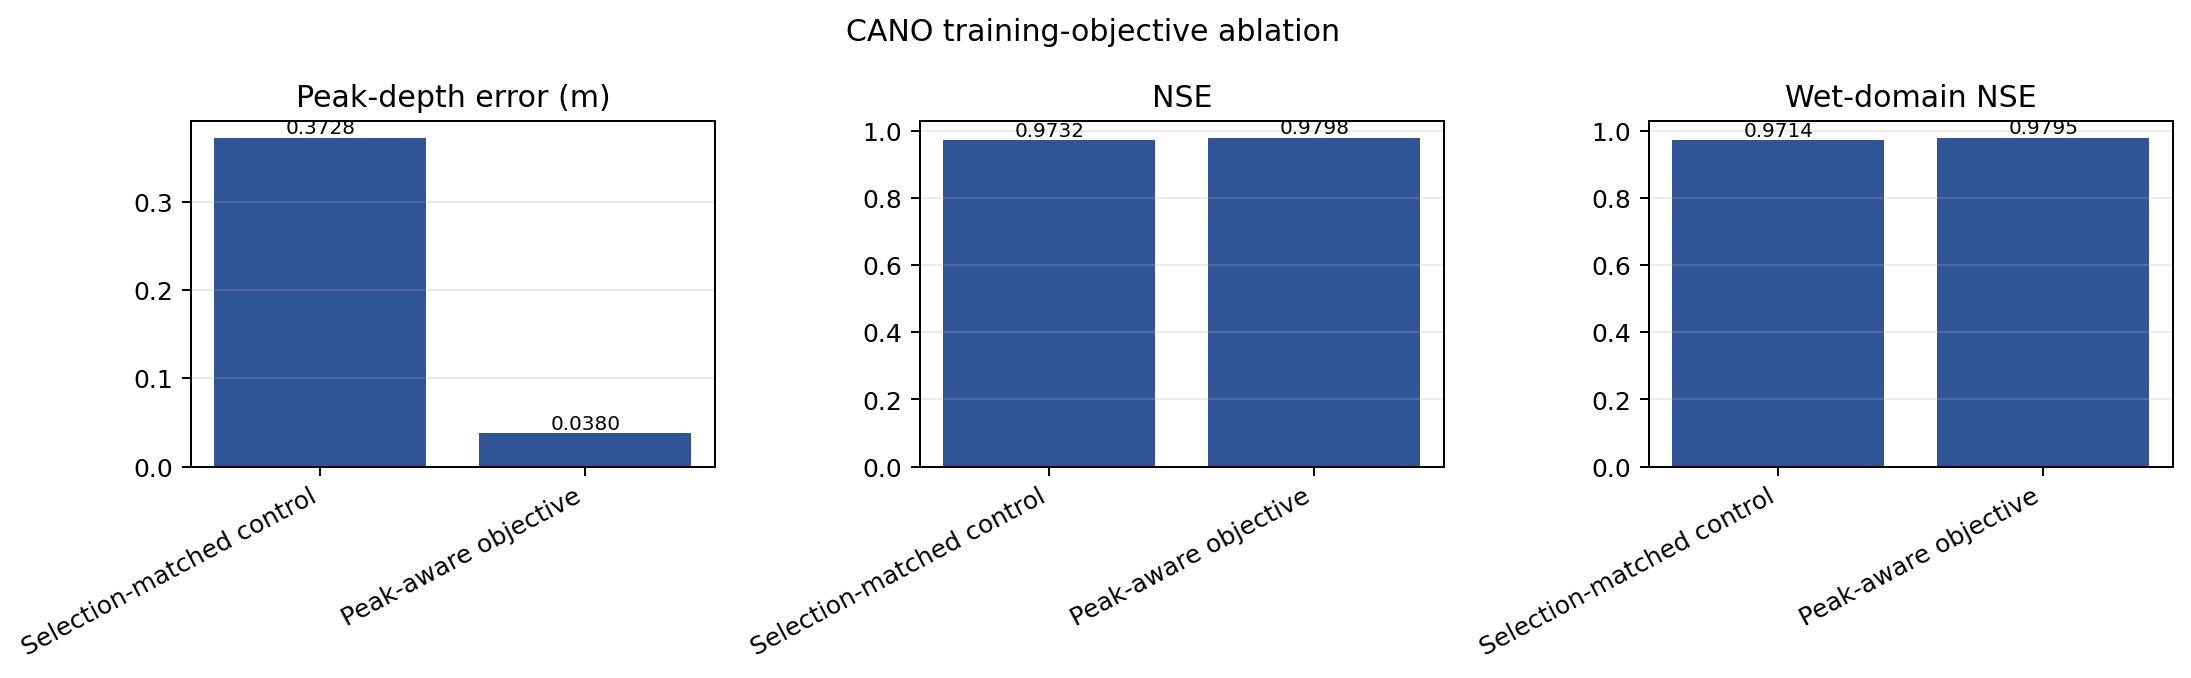
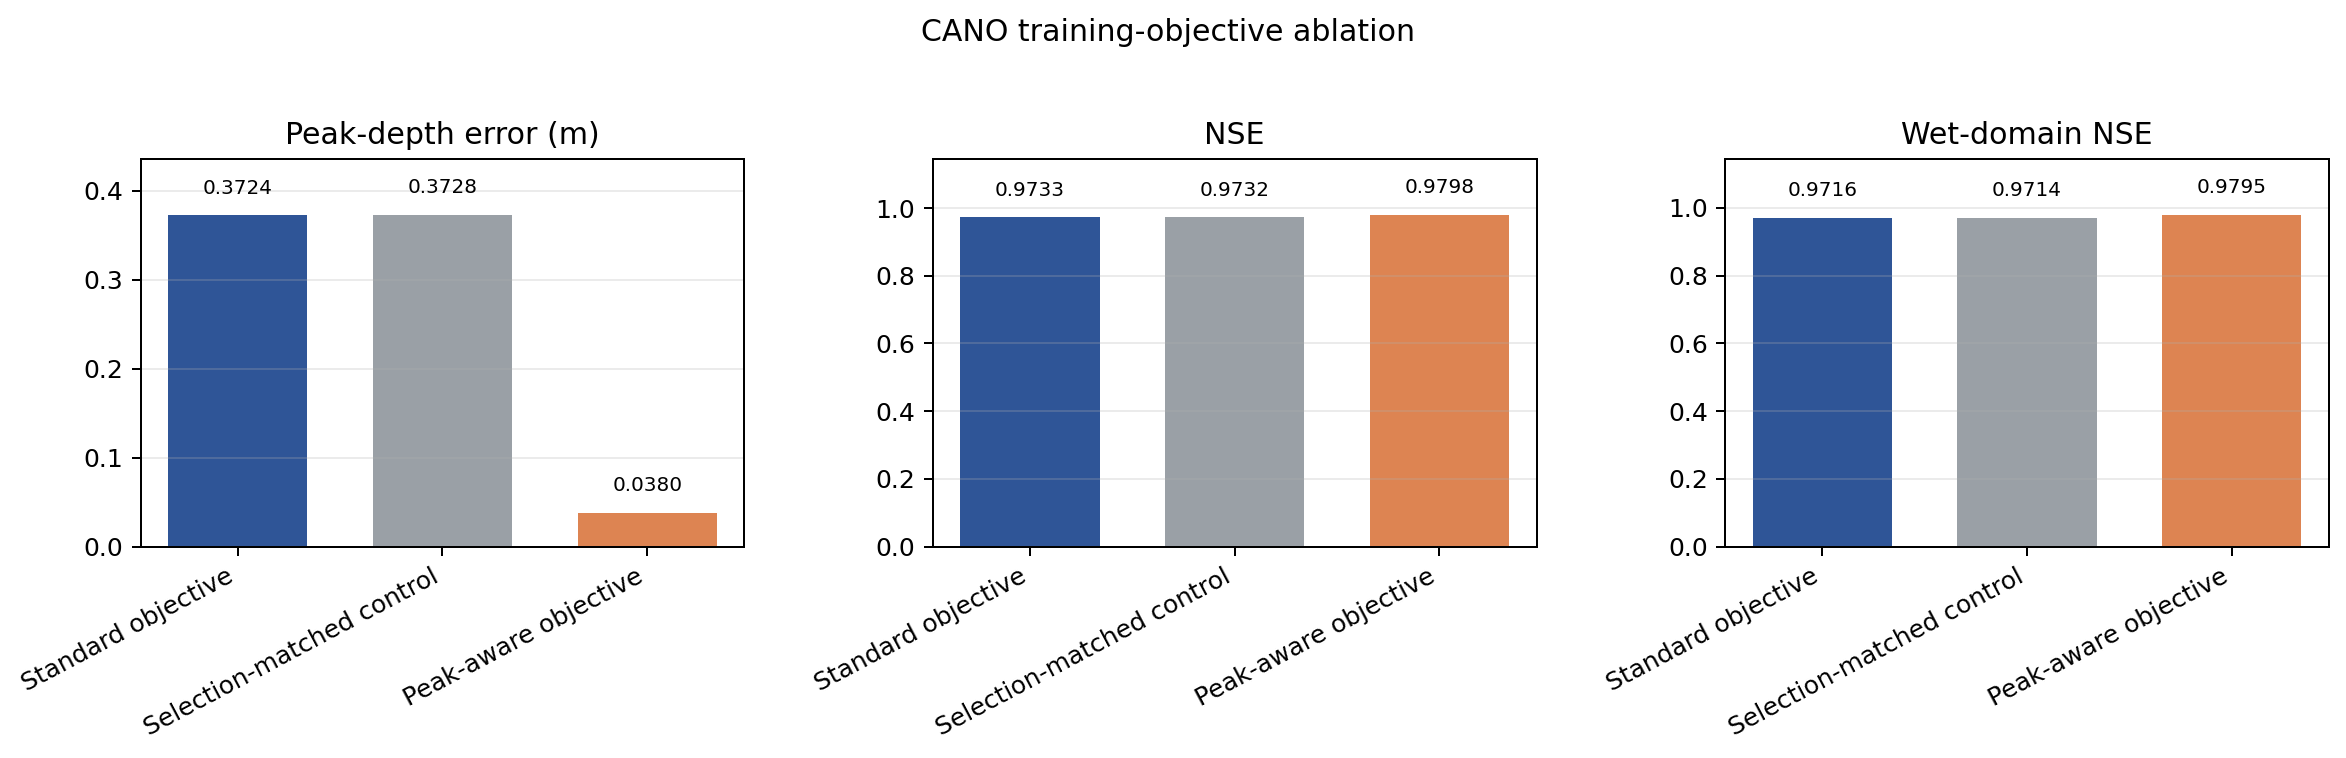
Add CANO objective ablation results

diff --git a/src/cano_bigdata2026/results.py b/src/cano_bigdata2026/results.py
@@ -5,7 +5,7 @@ from __future__ import annotations
 import argparse
 import csv
 from pathlib import Path
-from typing import Sequence
+from typing import Callable, Sequence
 
 import matplotlib
 
@@ -45,38 +45,57 @@ def _display_label(row: dict[str, str]) -> str:
     }.get(label, label)
 
 
+def _objective_label(row: dict[str, str]) -> str:
+    return {
+        "CANO (standard objective)": "Standard objective",
+        "CANO (selection-matched control)": "Selection-matched control",
+        "CANO (peak-aware objective)": "Peak-aware objective",
+    }.get(row["system"], row["system"])
+
+
+def _bar_color(row: dict[str, str]) -> str:
+    if row.get("comparison") == "cano_ablation":
+        return (
+            "#DD8452"
+            if row["system"] == "CANO (peak-aware objective)"
+            else "#9AA0A6"
+        )
+    return "#2F5597" if row["system"].startswith("CANO") else "#9AA0A6"
+
+
 def _bar_panels(
     rows: list[dict[str, str]],
     metrics: Sequence[str],
     output: Path,
     *,
     title: str,
+    labeler: Callable[[dict[str, str]], str] = _display_label,
 ) -> None:
-    figure, axes = plt.subplots(1, len(metrics), figsize=(4.1 * len(metrics), 3.8))
+    figure, axes = plt.subplots(1, len(metrics), figsize=(4.4 * len(metrics), 4.25))
     if len(metrics) == 1:
         axes = [axes]
-    labels = [_display_label(row) for row in rows]
-    colors = [
-        "#2F5597" if row["system"].startswith("CANO") else "#9AA0A6"
-        for row in rows
-    ]
+    labels = [labeler(row) for row in rows]
+    colors = [_bar_color(row) for row in rows]
     for axis, metric in zip(axes, metrics):
         values = [_float(row, metric) for row in rows]
-        bars = axis.bar(range(len(rows)), values, color=colors)
+        bars = axis.bar(range(len(rows)), values, width=0.68, color=colors)
         axis.set_title(METRIC_LABELS[metric])
         axis.set_xticks(range(len(rows)), labels, rotation=28, ha="right")
         axis.grid(axis="y", alpha=0.25)
         for bar, value in zip(bars, values):
-            axis.text(
-                bar.get_x() + bar.get_width() / 2,
-                bar.get_height(),
+            axis.annotate(
                 f"{value:.4f}",
+                xy=(bar.get_x() + bar.get_width() / 2, bar.get_height()),
+                xytext=(0, 7),
+                textcoords="offset points",
                 ha="center",
                 va="bottom",
                 fontsize=8,
             )
+        maximum = max(values)
+        axis.set_ylim(0, maximum * 1.17 if maximum > 0 else 1)
     figure.suptitle(title)
-    figure.tight_layout()
+    figure.tight_layout(rect=(0, 0, 1, 0.95), w_pad=2.2)
     figure.savefig(output, dpi=180, bbox_inches="tight")
     plt.close(figure)
 
@@ -104,20 +123,13 @@ def _event_plot(rows: list[dict[str, str]], output: Path) -> None:
     plt.close(figure)
 
 
-def _markdown(rows: list[dict[str, str]]) -> str:
+def _table_lines(rows: list[dict[str, str]]) -> list[str]:
     header = (
         "| System | Parameters (M) | H RMSE | NSE | Wet RMSE | Wet NSE | "
         "Peak error | CSI .01 | CSI .10 | CSI .30 | CSI .50 | Target ACE | Target WIS |"
     )
     rule = "|---|---:|---:|---:|---:|---:|---:|---:|---:|---:|---:|---:|---:|"
-    lines = [
-        "# Reported results",
-        "",
-        "Event-macro averages over the 12 BerlinI evaluation events.",
-        "",
-        header,
-        rule,
-    ]
+    lines = [header, rule]
     for row in rows:
         lines.append(
             "| {system} | {parameters_m:.3f} | {h_rmse_m:.4f} | {nse:.4f} | "
@@ -132,6 +144,32 @@ def _markdown(rows: list[dict[str, str]]) -> str:
                 },
             )
         )
+    return lines
+
+
+def _markdown(rows: list[dict[str, str]]) -> str:
+    standard = [row for row in rows if row["comparison"] == "standard"]
+    cano_standard = [
+        row for row in standard if row["system"] == "CANO (standard objective)"
+    ]
+    if len(cano_standard) != 1:
+        raise ValueError("expected exactly one CANO standard-objective row")
+    ablation = cano_standard + [
+        row for row in rows if row["comparison"] == "cano_ablation"
+    ]
+    lines = [
+        "# Reported results",
+        "",
+        "Event-macro averages over the 12 BerlinI evaluation events.",
+        "",
+        "## Standard-objective comparison",
+        "",
+        *_table_lines(standard),
+        "",
+        "## CANO training-objective ablation",
+        "",
+        *_table_lines(ablation),
+    ]
     lines.extend(
         [
             "",
@@ -151,7 +189,14 @@ def reproduce(*, results_dir: Path, output_dir: Path) -> dict[str, object]:
         _markdown(main_rows), encoding="utf-8"
     )
     standard = [row for row in main_rows if row["comparison"] == "standard"]
-    ablation = [row for row in main_rows if row["comparison"] == "cano_ablation"]
+    cano_standard = [
+        row for row in standard if row["system"] == "CANO (standard objective)"
+    ]
+    if len(cano_standard) != 1:
+        raise ValueError("expected exactly one CANO standard-objective row")
+    ablation = cano_standard + [
+        row for row in main_rows if row["comparison"] == "cano_ablation"
+    ]
     _bar_panels(
         standard,
         ("h_rmse_m", "nse", "wet_nse"),
@@ -169,6 +214,7 @@ def reproduce(*, results_dir: Path, output_dir: Path) -> dict[str, object]:
         ("peak_depth_abs_error_m", "nse", "wet_nse"),
         output_dir / "cano_objective_ablation.png",
         title="CANO training-objective ablation",
+        labeler=_objective_label,
     )
     _event_plot(event_rows, output_dir / "event_level_h_rmse.png")
     return {

diff --git a/tests/test_results.py b/tests/test_results.py
@@ -46,7 +46,12 @@ def test_reproduce_public_results(tmp_path: Path) -> None:
     assert result["status"] == "PASS"
     assert result["rows"] == 6
     assert result["event_rows"] == 48
-    assert (tmp_path / "generated/main_results.md").is_file()
+    table = (tmp_path / "generated/main_results.md").read_text(encoding="utf-8")
+    assert "## Standard-objective comparison" in table
+    assert "## CANO training-objective ablation" in table
+    assert table.count("CANO (standard objective)") == 2
+    assert table.count("CANO (selection-matched control)") == 1
+    assert table.count("CANO (peak-aware objective)") == 1
     for name in (
         "point_prediction_metrics.png",
         "uncertainty_metrics.png",
@@ -54,4 +59,3 @@ def test_reproduce_public_results(tmp_path: Path) -> None:
         "event_level_h_rmse.png",
     ):
         assert (tmp_path / "generated" / name).stat().st_size > 1_000
-

diff --git a/README.ko.md b/README.ko.md
@@ -100,6 +100,42 @@ python scripts/run_evidence_pipeline.py \
 
 ## 공개 결과
 
+표는 BerlinI 평가 사건 12개의 사건-매크로 평균입니다. 오차·Target ACE·Target
+WIS는 낮을수록 좋고, NSE·침수영역 NSE·CSI는 높을수록 좋습니다.
+
+### 표준 목적함수 비교
+
+| 시스템 | 파라미터 (M) | H RMSE | NSE | 침수영역 NSE | 극대수심 오차 | Target ACE | Target WIS |
+|---|---:|---:|---:|---:|---:|---:|---:|
+| **CANO (표준 목적함수)** | **0.277** | **0.0195** | **0.9733** | **0.9716** | 0.3724 | 0.0714 | **0.0121** |
+| DNO-3 (표준 목적함수) | 10.815 | 0.0288 | 0.9424 | 0.9369 | 0.2614 | 0.0280 | 0.0219 |
+| FNO3D (표준 목적함수) | 10.627 | 0.0294 | 0.9396 | 0.9521 | **0.1864** | **0.0157** | 0.0166 |
+| U-Net3D (표준 목적함수) | 5.650 | 0.0380 | 0.8703 | 0.8613 | 0.6357 | 0.0645 | 0.0355 |
+
+<p align="center">
+  <img src="results/generated/point_prediction_metrics.png" width="900" alt="표준 목적함수 점예측 성능">
+</p>
+
+### CANO 학습 목적함수 절제실험
+
+동일한 평가 조건에서 표준 목적함수, 선택조건 일치 대조군, 극대수심 궤적
+목적함수를 비교합니다.
+
+| CANO 목적함수 | H RMSE | NSE | 침수영역 RMSE | 침수영역 NSE | 극대수심 오차 | CSI .01 | CSI .10 | CSI .30 | CSI .50 | Target ACE | Target WIS |
+|---|---:|---:|---:|---:|---:|---:|---:|---:|---:|---:|---:|
+| 표준 목적함수 | 0.0195 | 0.9733 | 0.0236 | 0.9716 | 0.3724 | **0.7640** | 0.8414 | 0.9029 | 0.7678 | 0.0714 | 0.0121 |
+| 선택조건 일치 대조군 | 0.0195 | 0.9732 | 0.0237 | 0.9714 | 0.3728 | 0.7638 | 0.8412 | 0.9027 | 0.7677 | 0.0715 | 0.0121 |
+| 극대수심 궤적 목적함수 | **0.0164** | **0.9798** | **0.0197** | **0.9795** | **0.0380** | 0.7567 | **0.8541** | **0.9295** | **0.8261** | **0.0428** | **0.0074** |
+
+<p align="center">
+  <img src="results/generated/cano_objective_ablation.png" width="900" alt="CANO 학습 목적함수 절제실험">
+</p>
+
+극대수심 궤적 목적함수는 사건-매크로 극대수심 오차를 0.3724 m에서
+0.0380 m로 줄이고 NSE와 침수영역 NSE를 높였습니다. 반면 CSI .01은 모든
+지표가 함께 개선된 것은 아님을 보여줍니다. 같은 평가 사건 12개를 사용한
+절제실험이므로 독립 사건과 추가 도시 영역에서의 확인이 필요합니다.
+
 - `results/paper/main_results.csv`: 6개 비교행과 12개 지표
 - `results/paper/event_level_results.csv`: 12개 평가 사건의 익명화 결과
 - `results/generated/paired_inference.md`: 6개 핵심 비교의 효과크기, 95%

diff --git a/README.md b/README.md
@@ -48,10 +48,31 @@ better.
 | FNO3D (standard objective) | 10.627 | 0.0294 | 0.9396 | 0.9521 | **0.1864** | **0.0157** | 0.0166 |
 | U-Net3D (standard objective) | 5.650 | 0.0380 | 0.8703 | 0.8613 | 0.6357 | 0.0645 | 0.0355 |
 
-The within-model training-objective ablation reduced CANO's event-macro peak
-depth error from 0.3724 m to 0.0380 m. This result uses the same 12 evaluation
-events and therefore motivates confirmation on independent events and
-additional urban domains.
+<p align="center">
+  <img src="results/generated/point_prediction_metrics.png" width="900" alt="Standard-objective point-prediction metrics">
+</p>
+
+### CANO training-objective ablation
+
+The within-model ablation compares the standard objective, a selection-matched
+control, and the peak-aware trajectory objective under the same evaluation
+conditions.
+
+| CANO objective | H RMSE | NSE | Wet RMSE | Wet NSE | Peak error | CSI .01 | CSI .10 | CSI .30 | CSI .50 | Target ACE | Target WIS |
+|---|---:|---:|---:|---:|---:|---:|---:|---:|---:|---:|---:|
+| Standard objective | 0.0195 | 0.9733 | 0.0236 | 0.9716 | 0.3724 | **0.7640** | 0.8414 | 0.9029 | 0.7678 | 0.0714 | 0.0121 |
+| Selection-matched control | 0.0195 | 0.9732 | 0.0237 | 0.9714 | 0.3728 | 0.7638 | 0.8412 | 0.9027 | 0.7677 | 0.0715 | 0.0121 |
+| Peak-aware trajectory objective | **0.0164** | **0.9798** | **0.0197** | **0.9795** | **0.0380** | 0.7567 | **0.8541** | **0.9295** | **0.8261** | **0.0428** | **0.0074** |
+
+<p align="center">
+  <img src="results/generated/cano_objective_ablation.png" width="900" alt="CANO training-objective ablation">
+</p>
+
+The peak-aware trajectory objective reduced CANO's event-macro peak-depth
+error from 0.3724 m to 0.0380 m while increasing NSE and wet-domain NSE. The
+CSI .01 result illustrates that the objective does not improve every metric.
+Because the ablation uses the same 12 evaluation events, confirmation on
+independent events and additional urban domains remains necessary.
 
 The six prespecified paired comparisons are summarized below. All intervals
 exclude zero; exact values and adjusted p-values are provided in the
@@ -59,10 +80,6 @@ exclude zero; exact values and adjusted p-values are provided in the
 
 <p align="center">
   <img src="results/generated/controlled_baseline_effects.png" width="620" alt="CANO relative reductions and paired-bootstrap confidence intervals">
-</p>
-
-<p align="center">
-  <img src="results/generated/point_prediction_metrics.png" width="780" alt="Point-prediction metrics">
 </p>
 
 Additional public evidence:
